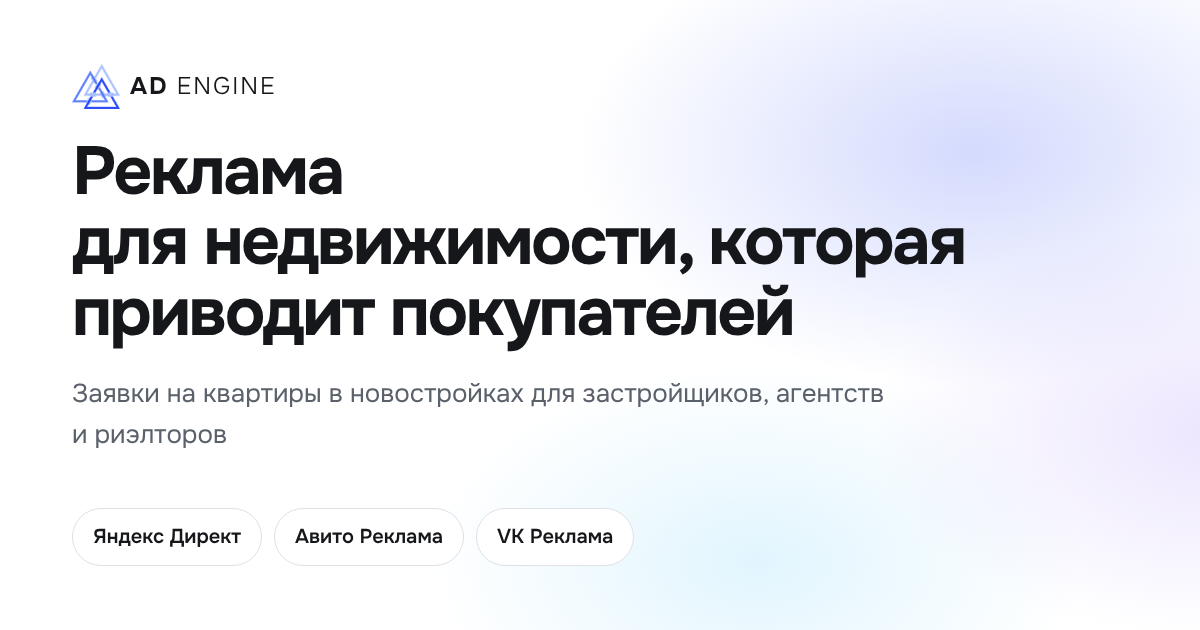
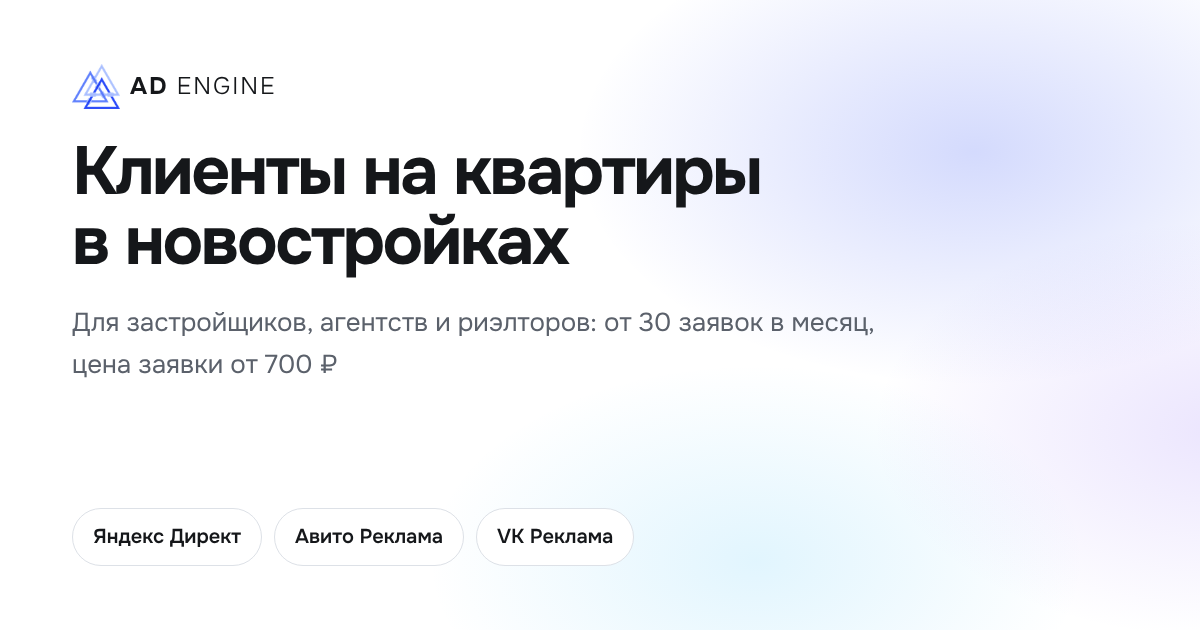
Главная: H1 и title под ключевой запрос «Клиенты на квартиры в новостройках»
Claude-Session: https://claude.ai/code/session_017EKXW5qmHaXzC7BW6siD5g

Changed region(s): [[0.0617, 0.2111, 0.8017, 0.7238]]

diff --git a/index.html b/index.html
@@ -3,9 +3,9 @@
 <head>
   <meta charset="utf-8">
   <meta name="viewport" content="width=device-width, initial-scale=1">
-  <title>Реклама для недвижимости: Яндекс Директ, Авито Реклама, VK Реклама — AD Engine</title>
-  <meta name="description" content="Настройка рекламы для застройщиков, агентств недвижимости и риэлторов: Яндекс Директ, Авито Реклама и VK Реклама. Квалифицированные заявки на квартиры в новостройках, сквозная аналитика до CRM, защита от ботов. Бесплатный аудит рекламы.">
-  <meta property="og:title" content="Реклама для недвижимости: заявки на квартиры в новостройках">
+  <title>Клиенты на квартиры в новостройках для застройщиков, агентств и риэлторов — AD Engine</title>
+  <meta name="description" content="Клиенты на квартиры в новостройках для застройщиков, агентств недвижимости и риэлторов: от 30 заявок в месяц, цена заявки от 700 ₽. Яндекс Директ, Авито Реклама и VK Реклама. Квалифицированные заявки на квартиры в новостройках, сквозная аналитика до CRM, защита от ботов. Бесплатный аудит рекламы.">
+  <meta property="og:title" content="Клиенты на квартиры в новостройках">
   <meta property="og:description" content="Яндекс Директ, Авито Реклама и VK Реклама для застройщиков, агентств и риэлторов. Сквозная аналитика до CRM.">
   <meta property="og:type" content="website">
   <link rel="canonical" href="https://ad-engine.ru/">
@@ -51,8 +51,8 @@
     <div class="wrap hero-grid">
       <div class="hero-copy">
         <p class="kicker">Трафик для&nbsp;застройщиков, агентств и&nbsp;риэлторов</p>
-        <h1>Реклама для&nbsp;недвижимости, которая приводит покупателей</h1>
-        <p class="lead">Настраиваем Яндекс Директ, Авито Реклама и&nbsp;VK Реклама под&nbsp;продажу квартир в&nbsp;новостройках. Отдаём не&nbsp;просто заявки, а&nbsp;людей, которые готовы смотреть объекты и&nbsp;выходить на&nbsp;сделку.</p>
+        <h1>Клиенты на&nbsp;квартиры в&nbsp;новостройках</h1>
+        <p class="lead">Приводим покупателей квартир в&nbsp;новостройках через Яндекс Директ, Авито Реклама и&nbsp;VK Реклама. Отдаём не&nbsp;просто заявки, а&nbsp;людей, которые готовы смотреть объекты и&nbsp;выходить на&nbsp;сделку.</p>
         <ul class="hero-facts">
           <li><strong>от&nbsp;30 заявок</strong><span>в&nbsp;месяц на&nbsp;проект</span></li>
           <li><strong>от&nbsp;700&nbsp;₽</strong><span>цена заявки</span></li>
